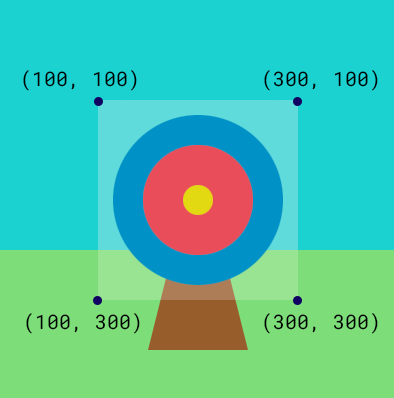
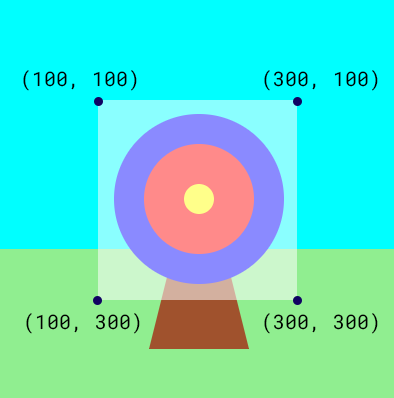
More updates for editor

diff --git a/en/step_4.md b/en/step_4.md
@@ -29,15 +29,15 @@ Add code to randomly draw a brown circle within a target area:
 language: python
 filename: main.py — shoot_arrow()
 line_numbers: true
-line_number_start: 9
-line_highlights: 10, 11, 12, 13, 14
+line_number_start: 7
+line_highlights: 8-12
 ---
 # The shoot_arrow function goes here    
 def shoot_arrow():   
   arrow_x = randint(100, 300) # Store a random number between 100 and 300    
   arrow_y = randint(100, 300) # Store a random number between 100 and 300    
-  fill(wood) # Set the arrow to fill colour to wood   
-  circle(arrow_x, arrow_y, 15) # Draw a small circle at random coordinates 
+  fill('sienna') # Set the arrow to fill colour to brown   
+  circle(arrow_x, arrow_y, 15) # Draw a small circle at random coordinates
 
 --- /code ---
 
@@ -52,12 +52,12 @@ Go to the `draw` function and call your new `shoot_arrow` function.
 language: python
 filename: main.py — draw()
 line_numbers: true
-line_number_start: 42
-line_highlights: 44
+line_number_start: 31
+line_highlights: 33
 ---
-  fill(middle)    
-  circle(200, 200, 30)    
-  shoot_arrow()   
+  fill('yellow') # Set the colour for the circle fill to yellow      
+  circle(200, 200, 30) # Draw the middle circle using x, y, width
+  shoot_arrow()
 
 --- /code ---
 
@@ -67,7 +67,7 @@ line_highlights: 44
 
 **Test:** 🔄 Run you code and see the arrow appear in a random position each frame.
 
-![The target, with a brown circle arrow appearing in a variety of positions.](images/fire_arrow.gif)
+![An animation of target with a brown circle arrow appearing in a variety of positions.](images/fire_arrow.gif)
 
 The background and target will be drawn over the old arrow. This means you only see one arrow at a time.
 
@@ -83,6 +83,8 @@ A <span style="color: #0faeb0; font-weight: bold;">pixel</span>, short for pictu
 
 --- task ---
 
+Add a **global variable** called `hit_color` that can be used throughout your code.
+
 Add code to `get` the colour of the pixel at the centre of the arrow and store it in the `hit_color` variable. 
 
 --- code ---
@@ -90,17 +92,18 @@ Add code to `get` the colour of the pixel at the centre of the arrow and store i
 language: python
 filename: main.py — shoot_arrow() 
 line_numbers: true
-line_number_start: 9
-line_highlights: 13
+line_number_start: 7
+line_highlights: 8, 11
 ---
 # The shoot_arrow function goes here     
-def shoot_arrow():    
-  arrow_x = randint(100, 300)    
-  arrow_y = randint(100, 300)    
-  hit_color = get(arrow_x, arrow_y) # Get the hit colour 
-  fill(wood)  
-  circle(arrow_x, arrow_y, 15)   
-
+def shoot_arrow():
+  global hit_color # Can be used in other functions  
+  arrow_x = randint(100, 300) # Store a random number between 100 and 300    
+  arrow_y = randint(100, 300) # Store a random number between 100 and 300
+  hit_color = get(arrow_x, arrow_y) # Get the hit colour     
+  fill('sienna') # Set the arrow to fill colour to brown   
+  circle(arrow_x, arrow_y, 15) # Draw a small circle at random coordinates
+  
 --- /code ---
 
 **Tip:** 💡 The code to `get` the colour needs to be **before** the code to draw the `circle` otherwise you will always save the wood colour of the arrow! 
@@ -115,20 +118,20 @@ The `p5` library 'listens' for certain events, one of these is the press of the 
 
 Define your `mouse_pressed()` function under the comment **# The mouse_pressed function goes here**. 
 
-Add code to print the amounts of red, green, and blue in the pixel the arrow lands on. 
+Add code to print the target emoji 🎯 when the mouse is clicked.
 
 --- code ---
 ---
 language: python
 filename: main.py - mouse_pressed()
 line_numbers: true
-line_number_start: 7
-line_highlights: 8, 9
+line_number_start: 5
+line_highlights: 6-7
 ---
 
 # The mouse_pressed function goes here    
 def mouse_pressed():    
-  print( red(hit_color), green(hit_color), blue(hit_color) )
+  print('🎯')
 
 --- /code ---
 
@@ -136,41 +139,14 @@ def mouse_pressed():
 
 --- task --- 
 
-Make `hit_color` a **global variable** so that it can be used throughout your code:
-
---- code ---
----
-language: python
-filename: main.py - shoot_arrow()
-line_numbers: true
-line_number_start: 11
-line_highlights: 13
----
-# The shoot_arrow function goes here    
-def shoot_arrow():    
-  global hit_color # Can be used in other functions     
-  arrow_x = randint(100, 300)     
-  arrow_y = randint(100, 300)     
-  hit_color = get(arrow_x, arrow_y) # Save the colour before drawing the arrow
-  fill(wood)     
-  circle(arrow_x, arrow_y, 15)     
-
---- /code ---
-
---- /task ---
-
---- task ---
-
 **Test:** 🔄 Run your project. 
 
-The project prints the `hit_color` each time the arrow is redrawn.
+The project prints 🎯 each time the arrow is redrawn.
 
-![The target, with a brown circle arrow appearing in a variety of positions.](images/fire_arrow.gif)
+![An animation of target with a brown circle arrow appearing in a variety of positions.](images/fire_arrow.gif)
 
 **Debug:** 🐞 If you are seeing a message about `hit_color` being 'not defined', then go back to `shoot_arrow()` and check that you have the `global hit_color` line.
 
 **Debug:** 🐞 Check the `print` line really carefully for commas and brackets. 
 
 --- /task ---
-
-

diff --git a/en/step_5.md b/en/step_5.md
@@ -6,14 +6,20 @@ Your game will add scores based on where the arrow hits.
 </div>
 <div>
 
-![The target, with the arrow appearing in a variety of positions, and scores appearing as text below the game.](images/points-scored.gif){:width="300px"}
+![An animation of the target, with the arrow appearing in a variety of positions, and scores appearing as text below the game.](images/points-scored.gif){:width="300px"}
 
 </div>
 </div>
+
+<p style="border-left: solid; border-width:10px; border-color: #0faeb0; background-color: aliceblue; padding: 10px;">
+We use <span style="color: #0faeb0; font-weight: bold;"> conditions</span> all the time to make decisions. We could say 'if the pencil is blunt, then sharpen it'. Similarly, `if` conditions let us write code that do something different depending on whether a condition is true or false.
+</p>
+
+### Display the scores
 
 --- task ---
 
-Go to the `draw()` function and add `, outer, inner, middle` to the list of global variables.
+Delete ❌ the `print('🎯')` line of code.
 
 --- code ---
 ---

diff --git a/en/step_3.md b/en/step_3.md
@@ -140,7 +140,7 @@ title: Example code using different colours
 language: python
 filename: main.py - draw()
 line_numbers: false
-line_number_start: 1
+line_number_start: 14
 line_highlights: 
 ---
     
